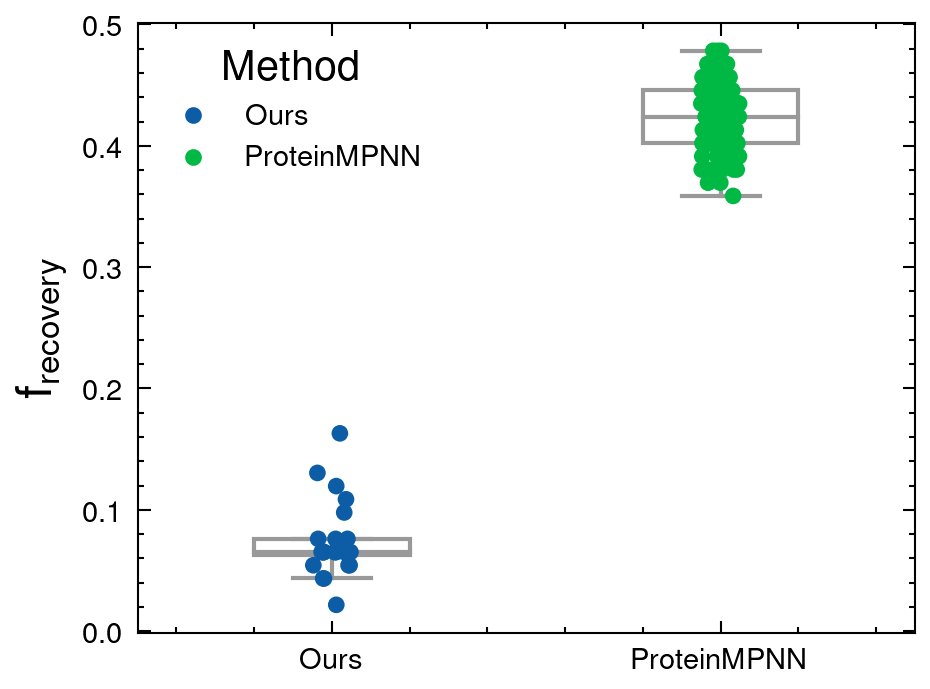
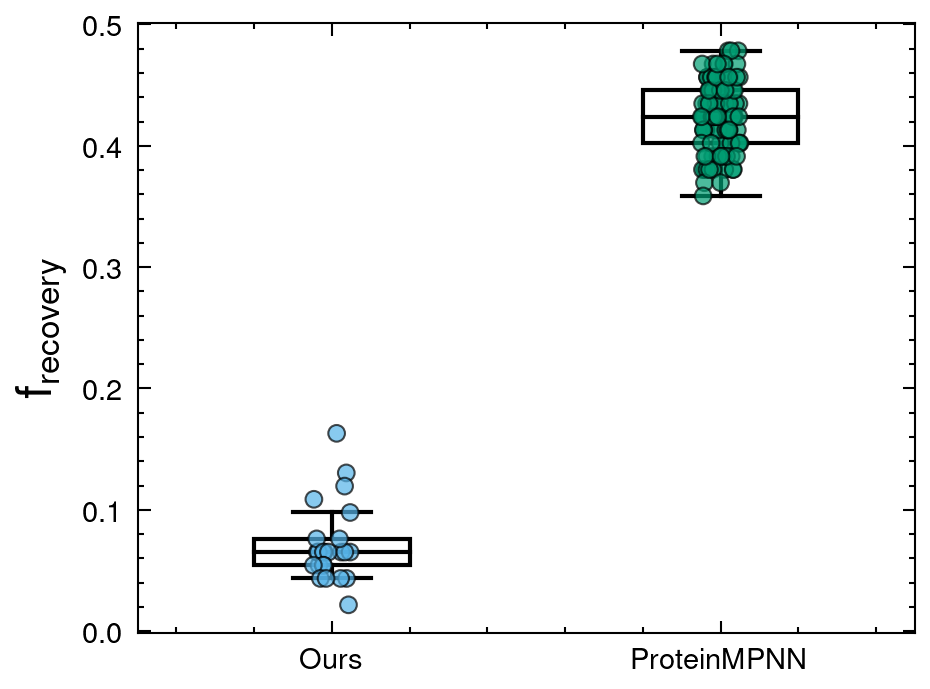
Added results_3.csv and results_4.csv to .gitignore. Refined data filtering conditions in fig1.py and improved plot styling. Added functionality to output the average negative_tm_score.

diff --git a/plot-code/fig1.py b/plot-code/fig1.py
@@ -25,8 +25,8 @@ for path in csv_files:
     if seq_col:
         df = df.drop_duplicates(subset=seq_col, keep='first')
 
-    df = df[df[tm_col] <= -0.953] if tm_col else df
-    df = df[df[plddt_col] <= -91.907] if plddt_col else df
+    df = df[df[tm_col] <= -0.95] if tm_col else df
+    df = df[df[plddt_col] <= -90] if plddt_col else df
 
     min_val = df[wt_col].min() if wt_col in df.columns else None
     if min_val is not None:
@@ -43,11 +43,66 @@ df_ours = pd.DataFrame({"Method": "Ours", "Recovery score": ours_min_wtr})
 df_pmpnn = pd.DataFrame({"Method": "ProteinMPNN", "Recovery score": pmpnn_wtr})
 df = pd.concat([df_ours, df_pmpnn], ignore_index=True)
 
-sns.stripplot(data=df, x="Method", y="Recovery score", hue="Method", size=4, jitter=0.05)
-sns.boxplot(data=df, x="Method", y="Recovery score", color='w', width=0.4, showfliers=False)
+colors = ["#56B4E9", "#009E73"]
+method_order = ["Ours", "ProteinMPNN"]
+palette = dict(zip(method_order, colors))
 
+# ストリッププロット（透明度と枠つき）
+sns.stripplot(
+    data=df,
+    x="Method",
+    y="Recovery score",
+    hue="Method",
+    order=method_order,
+    palette=palette,
+    size=4,
+    jitter=0.05,
+    dodge=False,
+    alpha=0.7,
+    edgecolor='k',
+    linewidth=0.5,
+    legend=False
+)
+
+# ボックスプロット（外れ値非表示・透明背景）
+sns.boxplot(
+    data=df,
+    x="Method",
+    y="Recovery score",
+    order=method_order,
+    color='white',
+    width=0.4,
+    showfliers=False,
+    boxprops=dict(facecolor='none', edgecolor='black'),
+    whiskerprops=dict(color='black'),
+    capprops=dict(color='black'),
+    medianprops=dict(color='black')
+)
+
+# 軸ラベル等
 plt.xlabel("")
 plt.ylabel(r"$\mathrm{f}_{\text{recovery}}$", fontsize=12)
 plt.tight_layout()
 plt.savefig("./plot/fig1.png", dpi=300)
 plt.close()
+
+print("Mean of negative_tm_score after filtering:")
+
+for path in csv_files:
+    df = pd.read_csv(path)
+    columns_lower = {c.lower(): c for c in df.columns}
+    tm_col = columns_lower['negative_tm_score']
+    plddt_col = columns_lower.get('plddt', None)
+    seq_col = columns_lower.get('query_sequence', None)
+
+    if seq_col:
+        df = df.drop_duplicates(subset=seq_col, keep='first')
+
+    df = df[df[tm_col] <= -0.90] if tm_col else df
+    df = df[df[plddt_col] <= -90] if plddt_col else df
+
+    if not df.empty:
+        mean_tm = df[tm_col].mean()
+        print(f"{path}: {mean_tm:.4f}")
+    else:
+        print(f"{path}: No data after filtering.")
